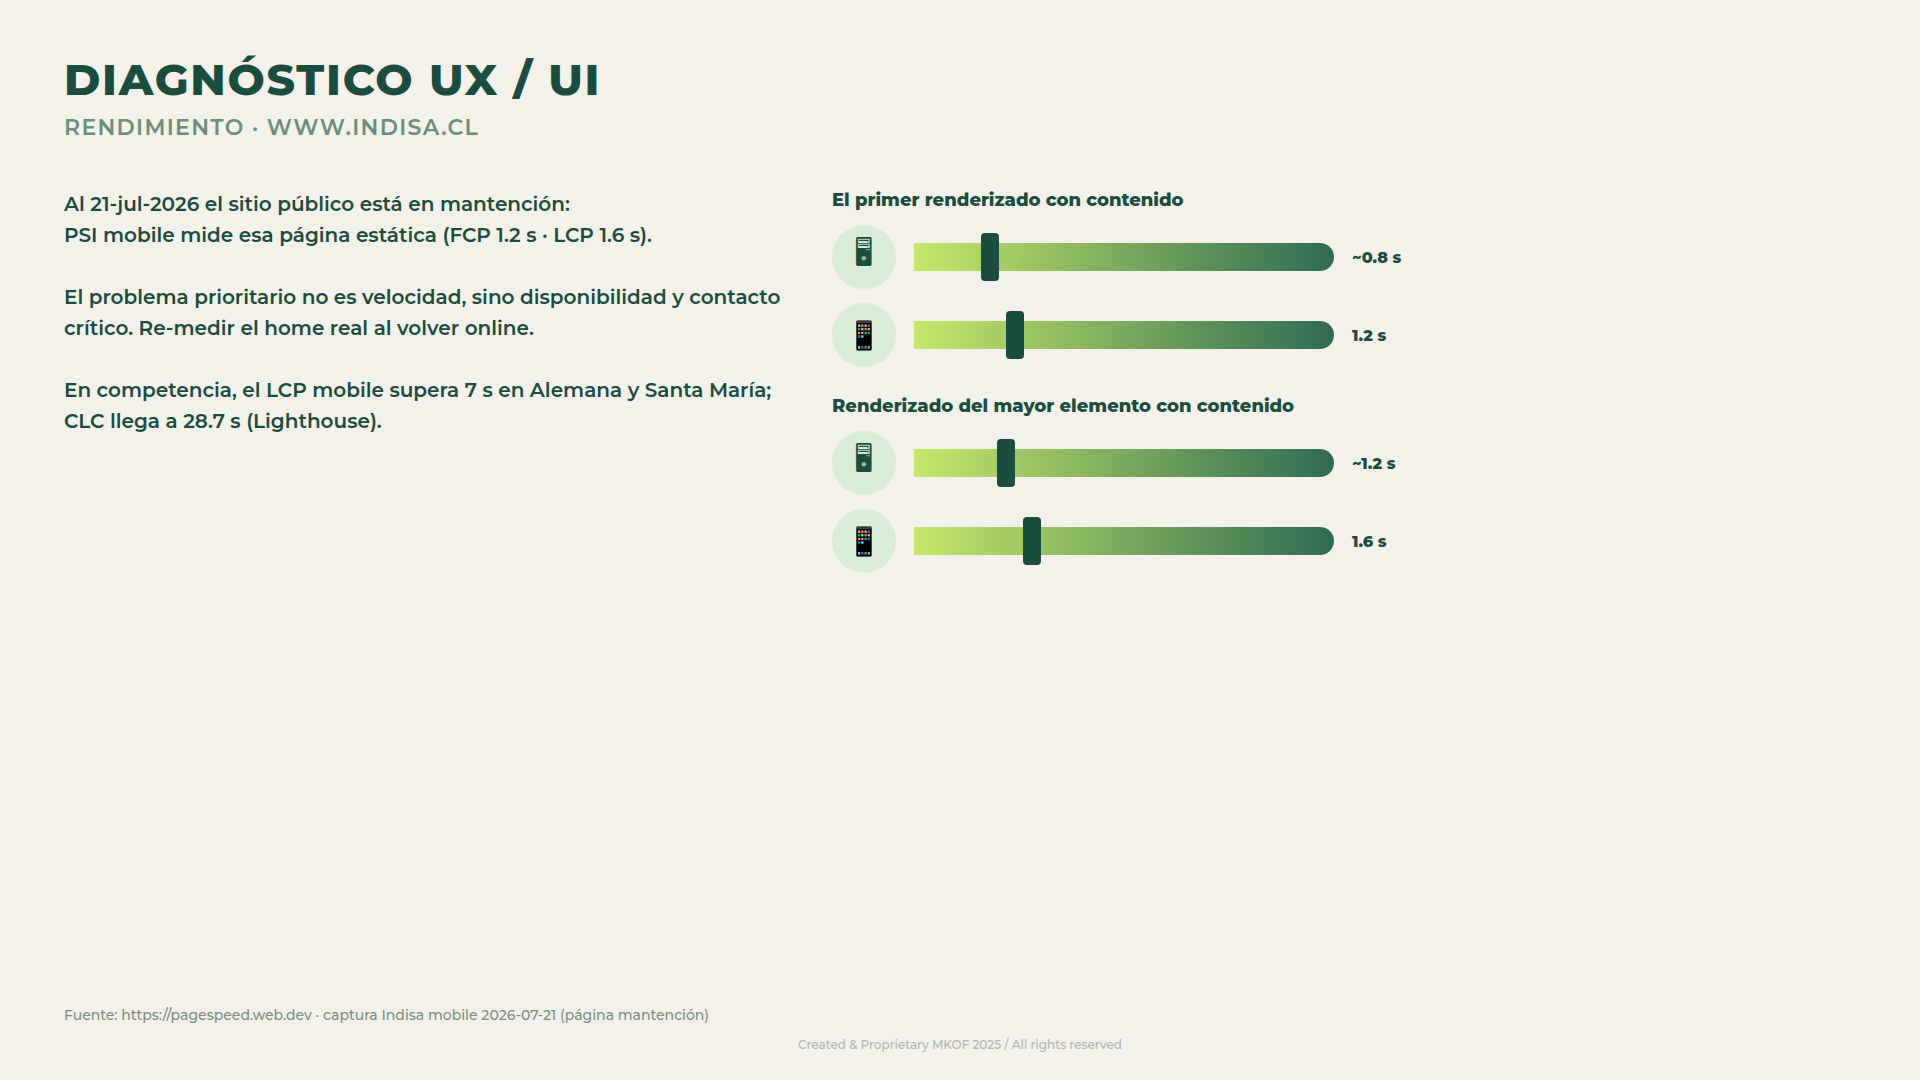
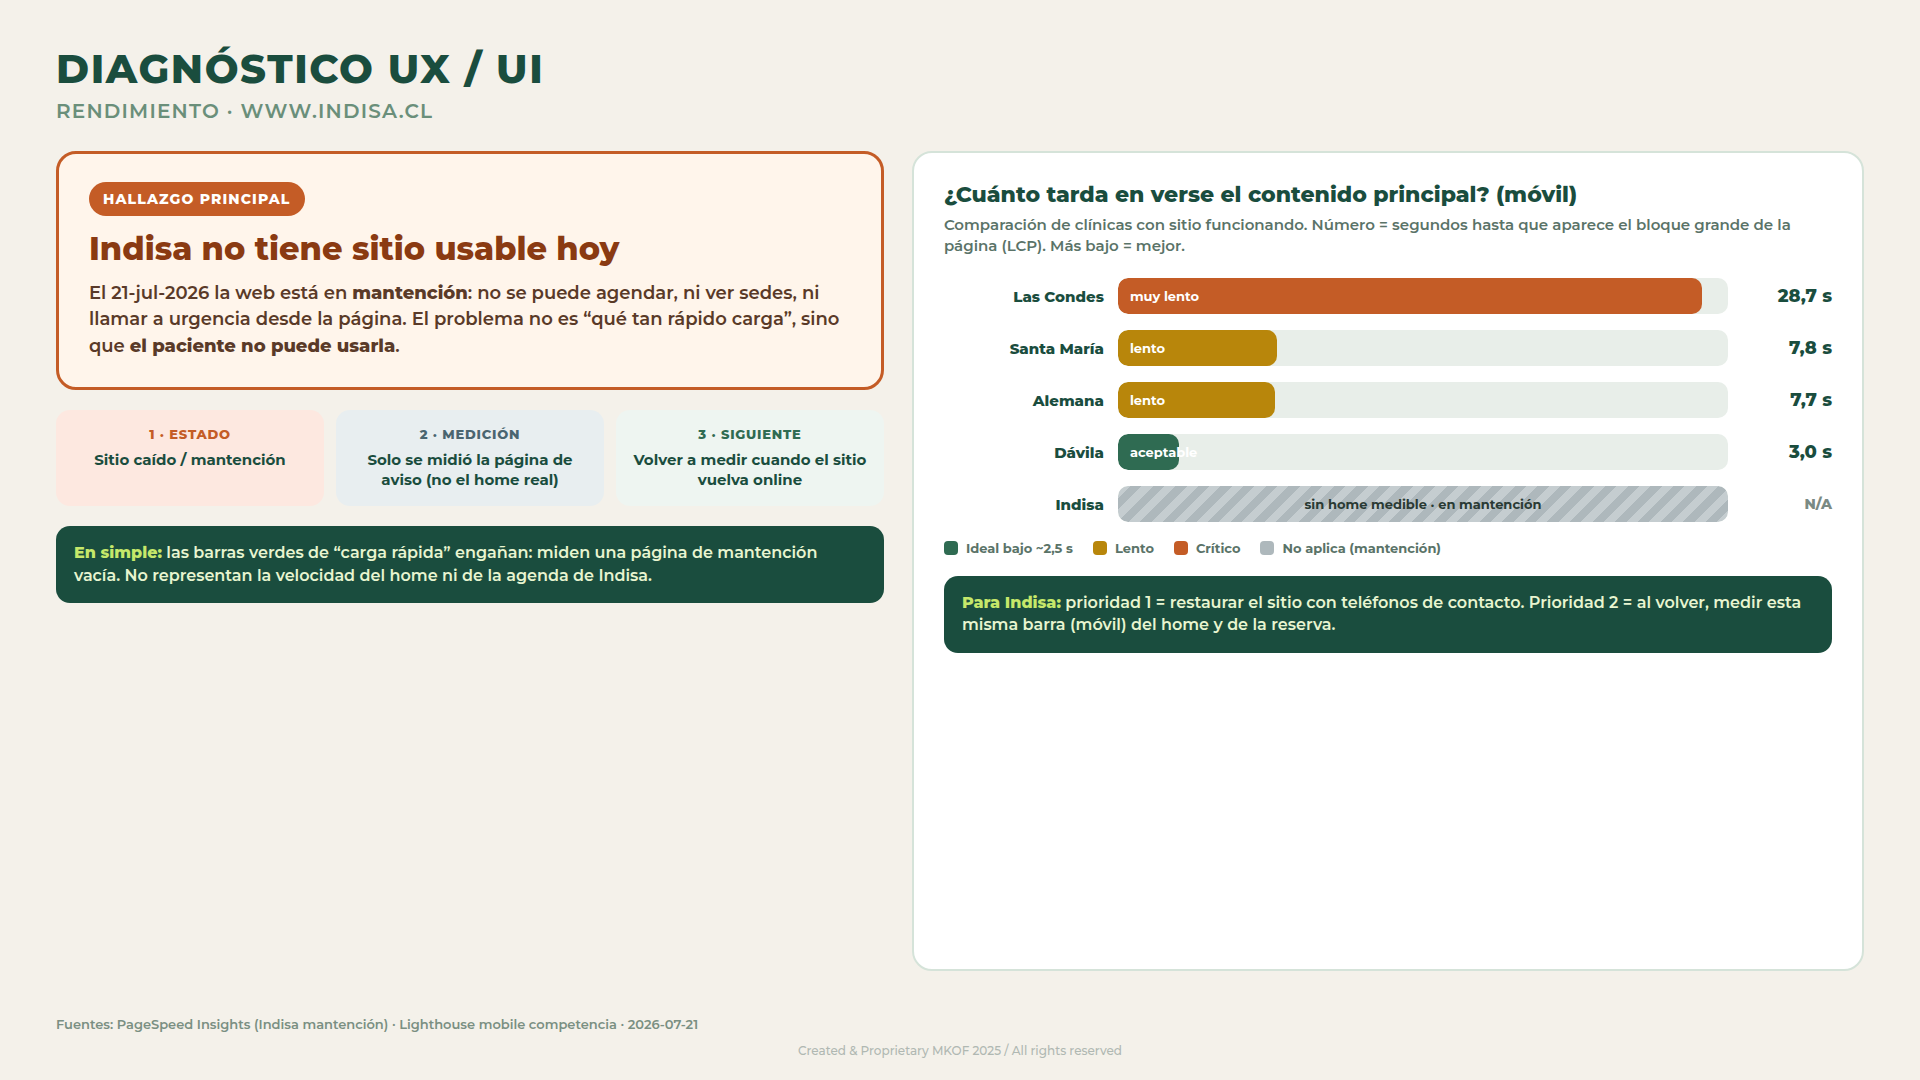
fix(mkof): rediseñar lámina rendimiento Indisa (más legible)
Hallazgo principal = sitio no usable; gráfico LCP móvil competencia;
sin barras verdes engañosas de la página de mantención.

diff --git a/index/clientes/mkof/prospecto/clientes/clinica-indisa/laminas/web/03-rendimiento.html b/index/clientes/mkof/prospecto/clientes/clinica-indisa/laminas/web/03-rendimiento.html
@@ -1,40 +1,275 @@
-<!DOCTYPE html><html lang="es"><head><meta charset="UTF-8"><title>Rendimiento</title><style>
-@import url('https://fonts.googleapis.com/css2?family=Montserrat:wght@500;600;700;800&display=swap');
-*{box-sizing:border-box;margin:0;padding:0}
-body{width:1920px;height:1080px;background:#f4f1ea;font-family:Montserrat,system-ui,sans-serif;color:#1a4d3e;padding:52px 64px;position:relative;overflow:hidden}
-h1{font-size:44px;font-weight:800;letter-spacing:.04em;color:#1a4d3e}
-.sub{font-size:22px;font-weight:600;color:#6a8f7a;margin-top:8px;letter-spacing:.06em}
-.foot{position:absolute;bottom:28px;left:0;right:0;text-align:center;font-size:12px;color:#b0b8b2}
-.box{background:#1a4d3e;color:#d8f0a8;border-radius:22px;padding:28px 32px}
-.box h2{font-size:26px;font-weight:800;color:#c6e86a;margin-bottom:14px}
-.box p,.box li{font-size:20px;line-height:1.45;color:#e8f5d0;font-weight:600}
-.pill{background:#2f6b52;color:#fff;border-radius:999px;padding:14px 28px;font-weight:700;font-size:16px;letter-spacing:.04em}
-.rec{background:#3d6b4f;color:#fff;border-radius:18px;padding:22px 20px;font-size:17px;font-weight:600;line-height:1.4}
-.rec b{font-weight:800}
-.cap{background:#2f6b52;color:#c6e86a;border-radius:999px;padding:16px 36px;font-size:22px;font-weight:800;letter-spacing:.04em;display:inline-block}
-.num{font-size:48px;font-weight:800;color:#1a4d3e}
-.wedge{height:28px;background:linear-gradient(90deg,#c6e86a 0%,#2f6b52 100%);border-radius:0 14px 14px 0;position:relative;width:420px}
-.pin{position:absolute;top:-10px;width:18px;height:48px;background:#1a4d3e;border-radius:4px;transform:translateX(-50%)}
-.metric-row{display:flex;align-items:center;gap:18px;margin:14px 0}
-.icon-circle{width:64px;height:64px;border-radius:50%;background:#d8ecd8;display:grid;place-items:center;font-size:28px;flex-shrink:0}
-</style></head><body>
+<!DOCTYPE html>
+<html lang="es">
+<head>
+  <meta charset="UTF-8">
+  <title>Rendimiento · Clínica Indisa</title>
+  <style>
+    @import url('https://fonts.googleapis.com/css2?family=Montserrat:wght@500;600;700;800&display=swap');
+    * { box-sizing: border-box; margin: 0; padding: 0; }
+    body {
+      width: 1920px; height: 1080px; background: #f4f1ea;
+      font-family: Montserrat, system-ui, sans-serif; color: #1a4d3e;
+      padding: 44px 56px 36px; position: relative; overflow: hidden;
+    }
+    h1 { font-size: 40px; font-weight: 800; letter-spacing: 0.04em; color: #1a4d3e; }
+    .sub { font-size: 20px; font-weight: 600; color: #6a8f7a; margin-top: 6px; letter-spacing: 0.06em; }
+    .foot {
+      position: absolute; bottom: 22px; left: 0; right: 0;
+      text-align: center; font-size: 12px; color: #b0b8b2;
+    }
+    .fuente {
+      position: absolute; bottom: 48px; left: 56px; right: 56px;
+      font-size: 13px; color: #7a8f82; font-weight: 600;
+    }
+    .grid {
+      display: grid;
+      grid-template-columns: 1fr 1.15fr;
+      gap: 28px;
+      margin-top: 28px;
+      height: 820px;
+    }
+    .card {
+      background: #fff;
+      border-radius: 20px;
+      border: 2px solid #d5e3d9;
+      padding: 28px 30px;
+    }
+    .alerta {
+      background: #fff5eb;
+      border: 3px solid #c45c26;
+      border-radius: 20px;
+      padding: 28px 30px;
+      margin-bottom: 20px;
+    }
+    .alerta .badge {
+      display: inline-block;
+      background: #c45c26;
+      color: #fff;
+      font-size: 14px;
+      font-weight: 800;
+      letter-spacing: 0.08em;
+      padding: 8px 14px;
+      border-radius: 999px;
+      margin-bottom: 14px;
+    }
+    .alerta h2 {
+      font-size: 32px;
+      font-weight: 800;
+      color: #8a3a12;
+      line-height: 1.2;
+      margin-bottom: 12px;
+    }
+    .alerta p {
+      font-size: 18px;
+      font-weight: 600;
+      color: #5a3a28;
+      line-height: 1.45;
+    }
+    .pasos {
+      display: grid;
+      grid-template-columns: 1fr 1fr 1fr;
+      gap: 12px;
+    }
+    .paso {
+      background: #eef5f1;
+      border-radius: 14px;
+      padding: 16px 14px;
+      text-align: center;
+    }
+    .paso .n {
+      font-size: 13px;
+      font-weight: 800;
+      color: #2f6b52;
+      letter-spacing: 0.06em;
+      margin-bottom: 8px;
+    }
+    .paso .t {
+      font-size: 15px;
+      font-weight: 700;
+      color: #1a4d3e;
+      line-height: 1.35;
+    }
+    .paso.malo { background: #fde8e0; }
+    .paso.malo .n { color: #c45c26; }
+    .paso.neutro { background: #e8eef0; }
+    .paso.neutro .n { color: #4a6570; }
+    .chart-title {
+      font-size: 22px;
+      font-weight: 800;
+      color: #1a4d3e;
+      margin-bottom: 6px;
+    }
+    .chart-sub {
+      font-size: 15px;
+      font-weight: 600;
+      color: #5a7368;
+      margin-bottom: 22px;
+      line-height: 1.4;
+    }
+    .row {
+      display: grid;
+      grid-template-columns: 160px 1fr 90px;
+      align-items: center;
+      gap: 14px;
+      margin-bottom: 16px;
+    }
+    .label {
+      font-size: 15px;
+      font-weight: 800;
+      color: #1a4d3e;
+      text-align: right;
+    }
+    .bar-track {
+      height: 36px;
+      background: #e8eee9;
+      border-radius: 10px;
+      overflow: hidden;
+      position: relative;
+    }
+    .bar-fill {
+      height: 100%;
+      border-radius: 10px;
+      display: flex;
+      align-items: center;
+      padding-left: 12px;
+      font-size: 13px;
+      font-weight: 700;
+      color: #fff;
+      min-width: 8px;
+    }
+    .bar-fill.malo { background: #c45c26; }
+    .bar-fill.medio { background: #b8860b; }
+    .bar-fill.ok { background: #2f6b52; }
+    .bar-fill.na {
+      background: repeating-linear-gradient(
+        -45deg, #c5cdd0, #c5cdd0 8px, #aeb8bc 8px, #aeb8bc 16px
+      );
+      color: #2a3a34;
+      width: 100% !important;
+      justify-content: center;
+      padding-left: 0;
+    }
+    .val {
+      font-size: 18px;
+      font-weight: 800;
+      color: #1a4d3e;
+      text-align: right;
+    }
+    .val.na { color: #7a8a84; font-size: 14px; }
+    .leyenda {
+      display: flex;
+      gap: 20px;
+      margin-top: 18px;
+      flex-wrap: wrap;
+      font-size: 13px;
+      font-weight: 700;
+      color: #5a7368;
+    }
+    .leyenda span { display: inline-flex; align-items: center; gap: 8px; }
+    .dot { width: 14px; height: 14px; border-radius: 4px; }
+    .nota-final {
+      margin-top: 20px;
+      background: #1a4d3e;
+      color: #e8f5d0;
+      border-radius: 14px;
+      padding: 16px 18px;
+      font-size: 16px;
+      font-weight: 600;
+      line-height: 1.4;
+    }
+    .nota-final b { color: #c6e86a; }
+  </style>
+</head>
+<body>
   <h1>DIAGNÓSTICO UX / UI</h1>
   <div class="sub">RENDIMIENTO · WWW.INDISA.CL</div>
-  <div style="display:flex;gap:48px;margin-top:48px">
-    <div style="flex:1;font-size:20px;font-weight:600;line-height:1.55;color:#1a4d3e;max-width:720px">
-      Al 21-jul-2026 el sitio público está en mantención:<br>
-      PSI mobile mide esa página estática (FCP 1.2 s · LCP 1.6 s).<br><br>
-      El problema prioritario no es velocidad, sino disponibilidad y contacto crítico. Re-medir el home real al volver online.<br><br>
-      En competencia, el LCP mobile supera 7 s en Alemana y Santa María; CLC llega a 28.7 s (Lighthouse).
+
+  <div class="grid">
+    <!-- IZQUIERDA: mensaje claro -->
+    <div>
+      <div class="alerta">
+        <div class="badge">HALLAZGO PRINCIPAL</div>
+        <h2>Indisa no tiene sitio usable hoy</h2>
+        <p>
+          El 21-jul-2026 la web está en <b>mantención</b>:
+          no se puede agendar, ni ver sedes, ni llamar a urgencia desde la página.
+          El problema no es “qué tan rápido carga”, sino que <b>el paciente no puede usarla</b>.
+        </p>
+      </div>
+
+      <div class="pasos">
+        <div class="paso malo">
+          <div class="n">1 · ESTADO</div>
+          <div class="t">Sitio caído / mantención</div>
+        </div>
+        <div class="paso neutro">
+          <div class="n">2 · MEDICIÓN</div>
+          <div class="t">Solo se midió la página de aviso (no el home real)</div>
+        </div>
+        <div class="paso">
+          <div class="n">3 · SIGUIENTE</div>
+          <div class="t">Volver a medir cuando el sitio vuelva online</div>
+        </div>
+      </div>
+
+      <div class="nota-final" style="margin-top:20px">
+        <b>En simple:</b> las barras verdes de “carga rápida” engañan:
+        miden una página de mantención vacía. No representan la velocidad
+        del home ni de la agenda de Indisa.
+      </div>
     </div>
-    <div style="flex:1">
-      <div style="font-size:18px;font-weight:800;margin-bottom:8px">El primer renderizado con contenido</div>
-      <div class="metric-row"><div class="icon-circle">🖥</div><div class="wedge"><div class="pin" style="left:18%"></div></div><div style="font-weight:800;min-width:90px">~0.8 s</div></div>
-      <div class="metric-row"><div class="icon-circle">📱</div><div class="wedge"><div class="pin" style="left:24%"></div></div><div style="font-weight:800;min-width:90px">1.2 s</div></div>
-      <div style="font-size:18px;font-weight:800;margin:28px 0 8px">Renderizado del mayor elemento con contenido</div>
-      <div class="metric-row"><div class="icon-circle">🖥</div><div class="wedge"><div class="pin" style="left:22%"></div></div><div style="font-weight:800;min-width:90px">~1.2 s</div></div>
-      <div class="metric-row"><div class="icon-circle">📱</div><div class="wedge"><div class="pin" style="left:28%"></div></div><div style="font-weight:800;min-width:90px">1.6 s</div></div>
+
+    <!-- DERECHA: gráfico competencia -->
+    <div class="card">
+      <div class="chart-title">¿Cuánto tarda en verse el contenido principal? (móvil)</div>
+      <div class="chart-sub">
+        Comparación de clínicas con sitio funcionando.
+        Número = segundos hasta que aparece el bloque grande de la página (LCP).
+        Más bajo = mejor.
+      </div>
+
+      <!-- Escala max ~30s for CLC; use width % of 30 -->
+      <div class="row">
+        <div class="label">Las Condes</div>
+        <div class="bar-track"><div class="bar-fill malo" style="width:95.7%">muy lento</div></div>
+        <div class="val">28,7 s</div>
+      </div>
+      <div class="row">
+        <div class="label">Santa María</div>
+        <div class="bar-track"><div class="bar-fill medio" style="width:26%">lento</div></div>
+        <div class="val">7,8 s</div>
+      </div>
+      <div class="row">
+        <div class="label">Alemana</div>
+        <div class="bar-track"><div class="bar-fill medio" style="width:25.7%">lento</div></div>
+        <div class="val">7,7 s</div>
+      </div>
+      <div class="row">
+        <div class="label">Dávila</div>
+        <div class="bar-track"><div class="bar-fill ok" style="width:10%">aceptable</div></div>
+        <div class="val">3,0 s</div>
+      </div>
+      <div class="row">
+        <div class="label">Indisa</div>
+        <div class="bar-track"><div class="bar-fill na">sin home medible · en mantención</div></div>
+        <div class="val na">N/A</div>
+      </div>
+
+      <div class="leyenda">
+        <span><i class="dot" style="background:#2f6b52"></i> Ideal bajo ~2,5 s</span>
+        <span><i class="dot" style="background:#b8860b"></i> Lento</span>
+        <span><i class="dot" style="background:#c45c26"></i> Crítico</span>
+        <span><i class="dot" style="background:#aeb8bc"></i> No aplica (mantención)</span>
+      </div>
+
+      <div class="nota-final">
+        <b>Para Indisa:</b> prioridad 1 = restaurar el sitio con teléfonos de contacto.
+        Prioridad 2 = al volver, medir esta misma barra (móvil) del home y de la reserva.
+      </div>
     </div>
   </div>
-  <div style="position:absolute;bottom:56px;left:64px;font-size:14px;color:#7a8f82">Fuente: https://pagespeed.web.dev · captura Indisa mobile 2026-07-21 (página mantención)</div>
-<div class="foot">Created & Proprietary MKOF 2025 / All rights reserved</div></body></html>
+
+  <div class="fuente">Fuentes: PageSpeed Insights (Indisa mantención) · Lighthouse mobile competencia · 2026-07-21</div>
+  <div class="foot">Created & Proprietary MKOF 2025 / All rights reserved</div>
+</body>
+</html>
